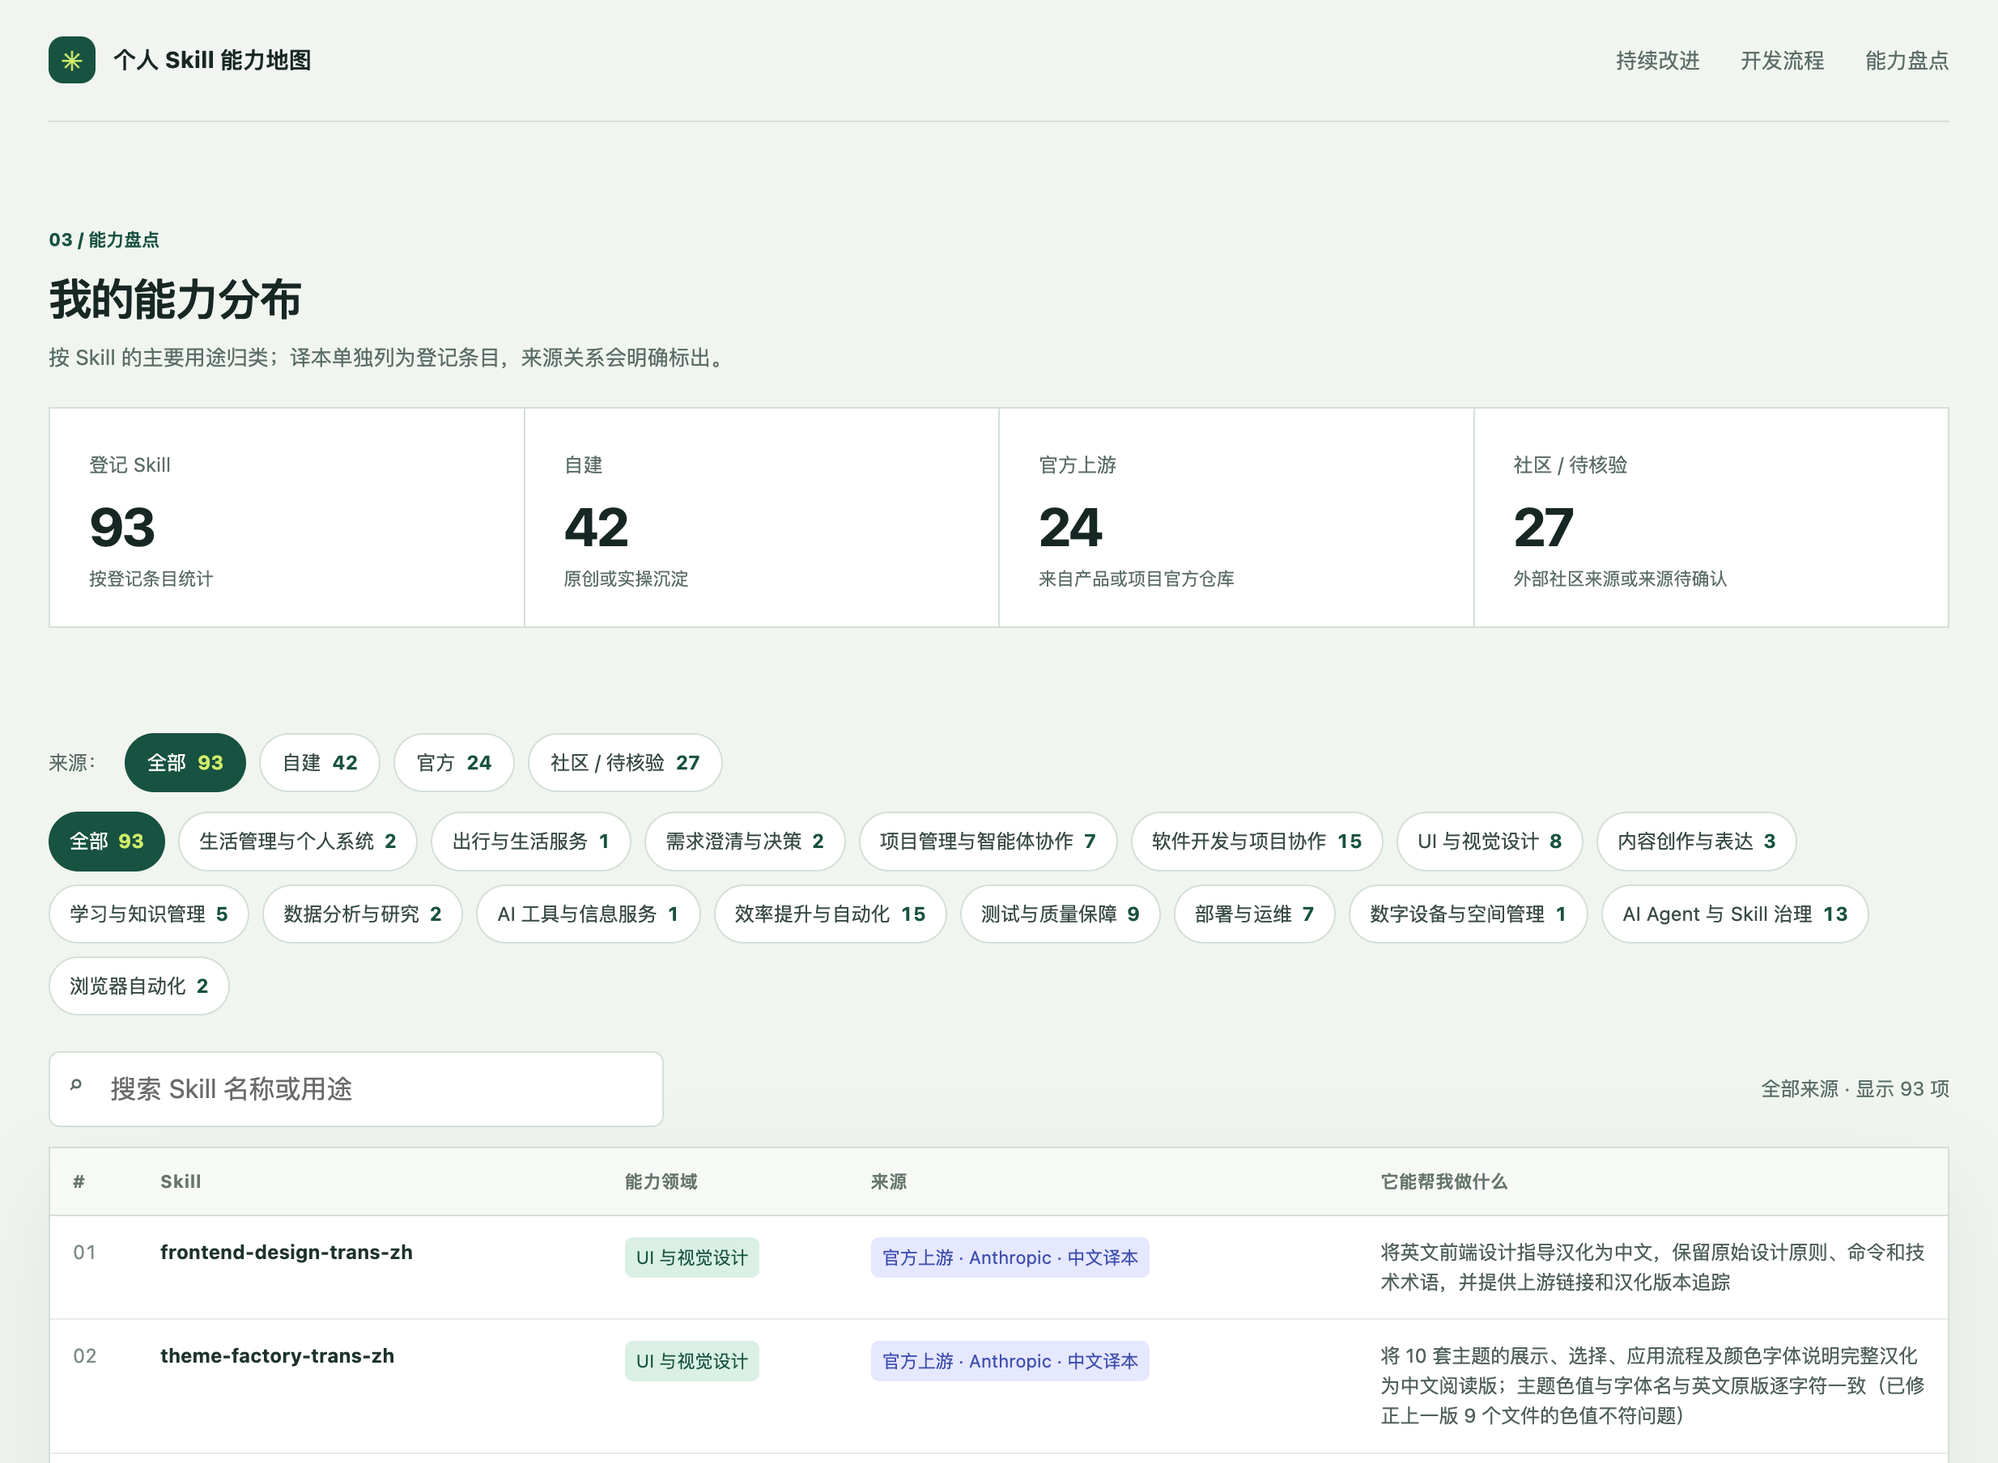
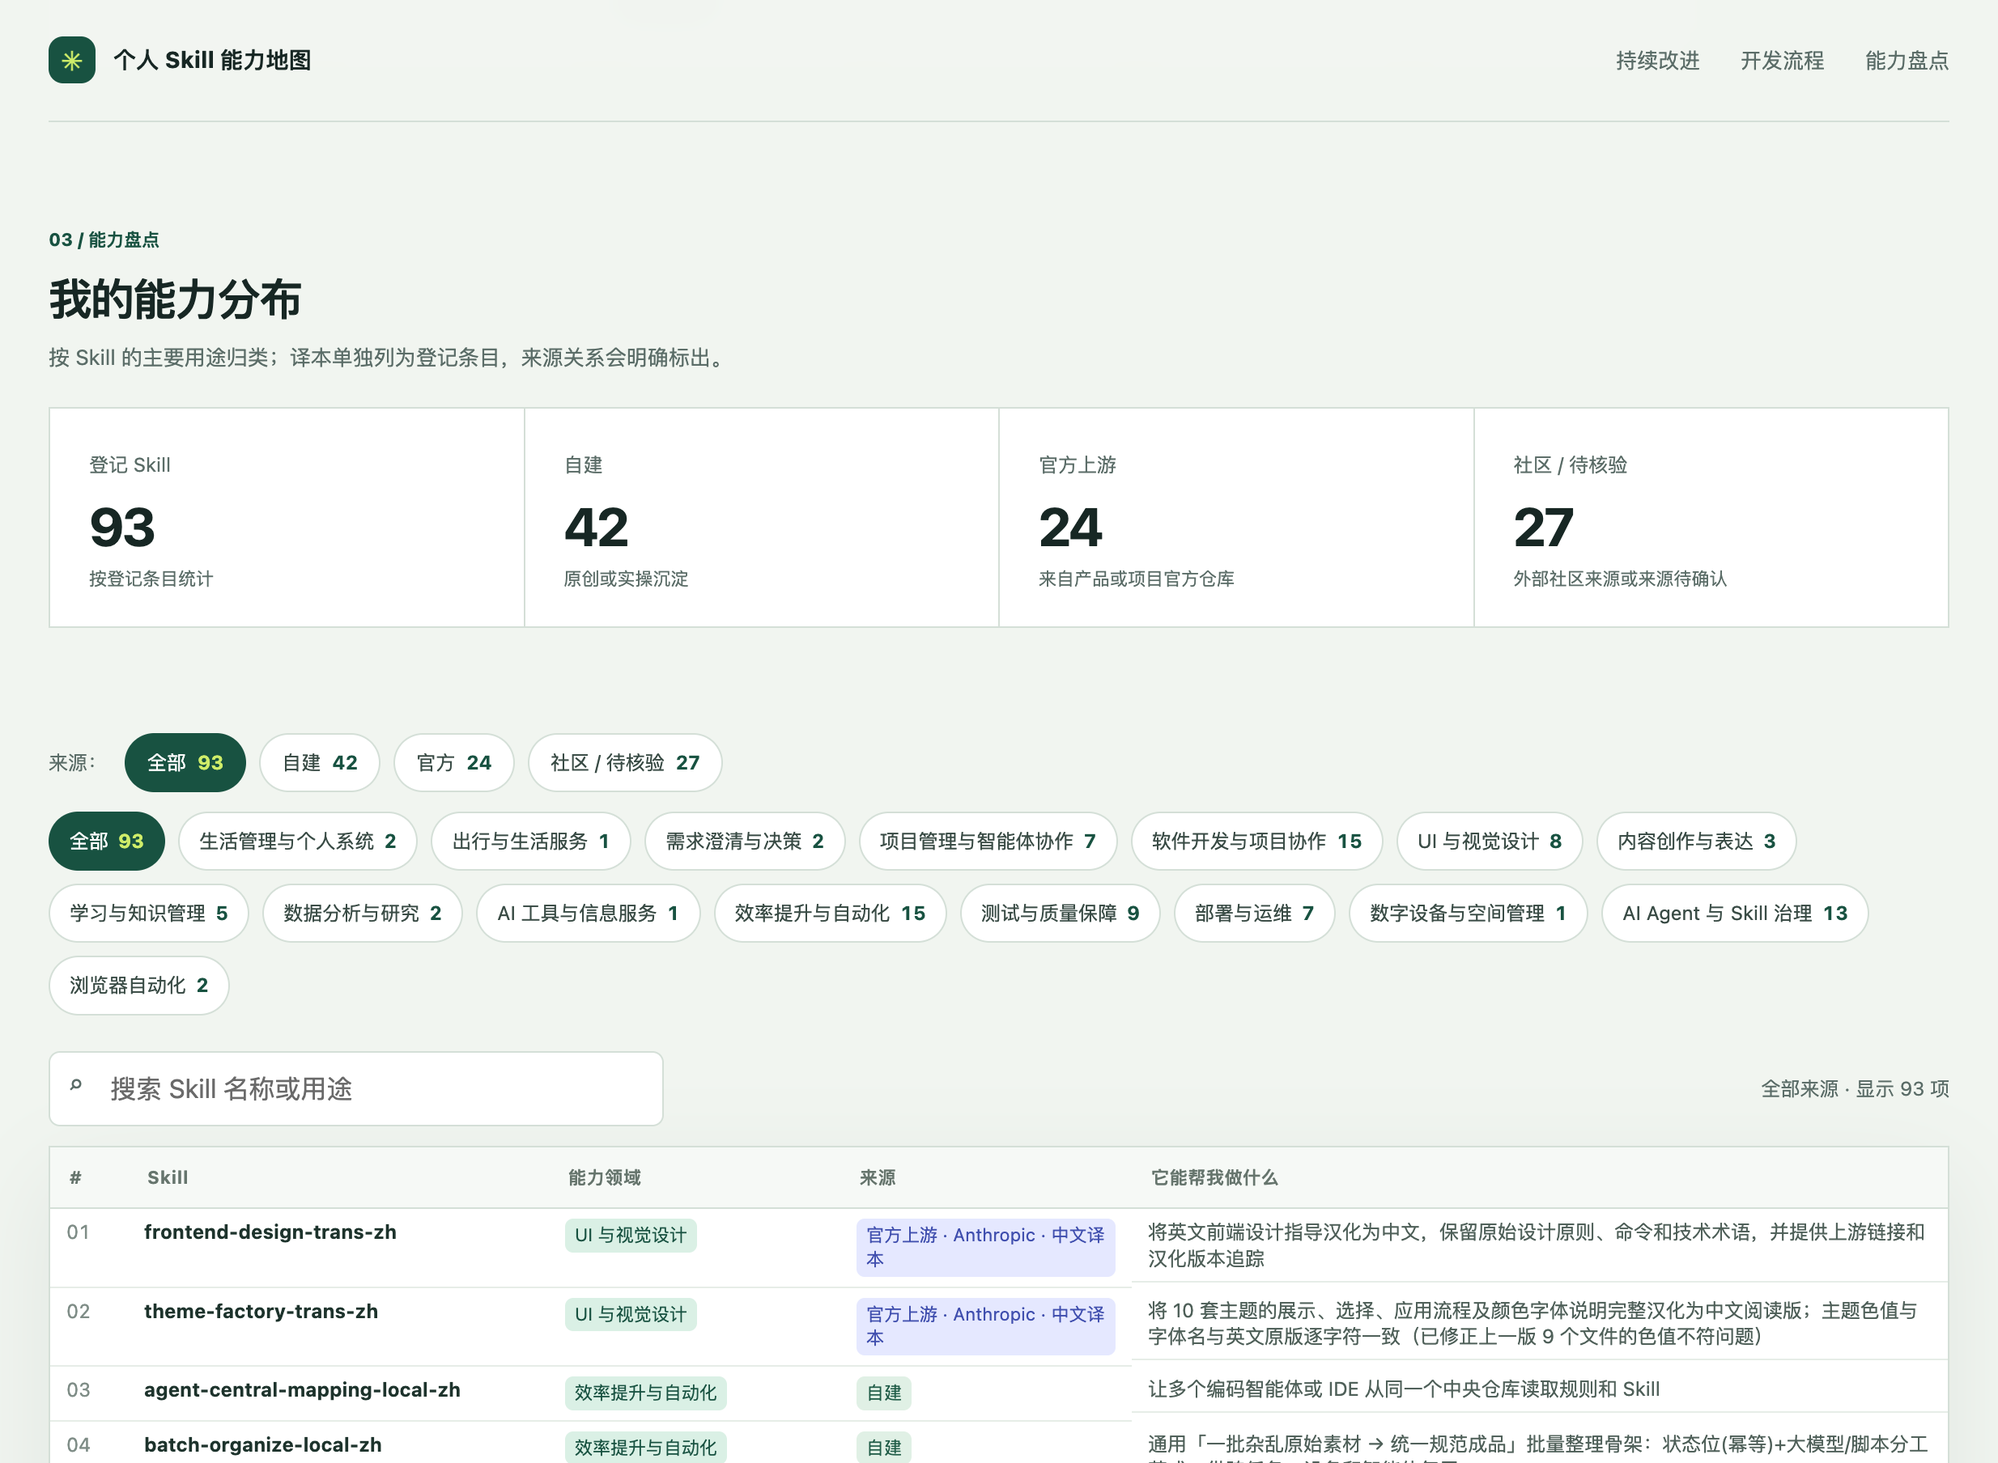
fix: remove internal gap notes and compact skill list

diff --git a/index.html b/index.html
@@ -12,8 +12,8 @@
     .hero{padding:63px 0 36px;display:grid;grid-template-columns:1.2fr .8fr;gap:60px;align-items:end}.kicker{font-size:12px;color:var(--green);font-weight:700;letter-spacing:.09em}.hero h1{font-size:clamp(42px,6vw,76px);line-height:1.03;letter-spacing:-.055em;margin:17px 0 20px;max-width:780px}.hero p{font-size:16px;color:var(--muted);max-width:600px;margin:0}.hero-note{border-left:2px solid var(--lime);padding:4px 0 4px 19px;color:#52645e;font-size:13px;max-width:340px;justify-self:end}.hero-note strong{color:var(--ink);display:block;margin-bottom:5px;font-size:14px}
     .stats{display:grid;grid-template-columns:repeat(4,1fr);gap:1px;border:1px solid var(--line);background:var(--line);margin:15px 0 65px}.stat{background:var(--surface);padding:21px 24px}.stat small{color:var(--muted);font-size:12px}.stat strong{display:block;font-size:33px;letter-spacing:-.04em;line-height:1.2;margin-top:7px}.stat .hint{font-size:11px;color:var(--muted);margin-top:4px}.section{padding:28px 0 66px;scroll-margin-top:20px}.section-head{display:flex;justify-content:space-between;align-items:end;gap:25px;margin-bottom:21px}.section-head h2{font-size:27px;letter-spacing:-.035em;margin:0}.section-head p{color:var(--muted);font-size:13px;margin:5px 0 0}.eyebrow{font-size:11px;color:var(--green);font-weight:750;margin-bottom:7px}.domains{display:flex;gap:8px;flex-wrap:wrap;margin:17px 0 22px}.domain-chip{border:1px solid var(--line);color:#42564f;background:#fff;padding:8px 12px;border-radius:999px;font-size:12px}.domain-chip b{color:var(--green);margin-left:6px}.domain-chip[aria-pressed="true"]{background:var(--green);border-color:var(--green);color:#fff}.domain-chip[aria-pressed="true"] b{color:var(--lime)}
     .source-filters{display:flex;align-items:center;gap:8px;flex-wrap:wrap;margin:18px 0 12px}.filter-label{font-size:12px;color:var(--muted);margin-right:3px}.source-chip{border:1px solid var(--line);color:#42564f;background:#fff;padding:8px 13px;border-radius:999px;font-size:12px}.source-chip b{margin-left:7px;color:var(--green)}.source-chip[aria-pressed="true"]{background:var(--green);border-color:var(--green);color:#fff}.source-chip[aria-pressed="true"] b{color:var(--lime)}.domains{margin:12px 0 22px}.domain-chip b{font-variant-numeric:tabular-nums}
-    .toolbar{display:flex;justify-content:space-between;align-items:center;gap:12px;margin:12px 0}.search{width:min(380px,100%);position:relative}.search input{width:100%;border:1px solid var(--line);border-radius:7px;background:#fff;padding:10px 12px 10px 37px;color:var(--ink);outline:none}.search input:focus{border-color:var(--green);box-shadow:0 0 0 3px rgba(25,92,74,.12)}.search span{position:absolute;left:12px;top:8px;color:var(--muted)}.result-count{font-size:12px;color:var(--muted)}.table-shell{overflow:auto;background:var(--surface);border:1px solid var(--line);box-shadow:var(--shadow)}table{border-collapse:collapse;width:100%;min-width:900px;text-align:left}th{font-size:11px;letter-spacing:.03em;color:#718078;background:#f7faf7;padding:12px 14px;border-bottom:1px solid var(--line);font-weight:700;position:sticky;top:0}td{padding:13px 14px;border-bottom:1px solid #e9efea;vertical-align:top;font-size:12px}tbody tr:hover{background:#f9fcf9}.num{color:#8a9892;font-variant-numeric:tabular-nums;width:54px}.skill-name{font-weight:700;color:#203a32;white-space:nowrap}.domain-tag{display:inline-block;border-radius:5px;padding:4px 7px;background:var(--mint);color:var(--green);font-size:11px;white-space:nowrap}.source-tag{display:inline-block;border-radius:5px;padding:4px 7px;font-size:11px;white-space:nowrap}.source-self{background:#e4f2e8;color:#21664f}.source-official{background:var(--blue-pale);color:#4959b7}.source-other{background:#f0eee9;color:#6c6257}.summary{color:#596b64;max-width:510px}.empty{padding:35px;text-align:center;color:var(--muted)}
-    .flow-title{font-size:14px;margin:23px 0 8px;color:#53675f}.flow-wrap{overflow-x:auto;padding:4px 1px 15px}.flow{display:flex;align-items:stretch;gap:0;min-width:1030px}.life-flow{min-width:760px}.stage{width:168px;min-height:165px;background:#fff;border:1px solid var(--line);padding:15px 14px;position:relative;flex:0 0 auto}.stage:first-child{border-radius:8px 0 0 8px}.stage:last-child{border-radius:0 8px 8px 0}.stage:not(:last-child):after{content:"";position:absolute;z-index:2;right:-13px;top:29px;width:24px;height:1px;background:#8eaa98}.stage:not(:last-child):before{content:"";position:absolute;z-index:3;right:-14px;top:25px;width:8px;height:8px;border-top:1px solid #8eaa98;border-right:1px solid #8eaa98;transform:rotate(45deg)}.stage-n{font-size:10px;color:#87958f;font-variant-numeric:tabular-nums}.stage h3{font-size:14px;margin:10px 0 9px}.stage button{border:0;background:transparent;padding:0;text-align:left;color:var(--green);font-size:11px;line-height:1.5;text-decoration:underline;text-decoration-color:#bbd1c4;text-underline-offset:3px;display:block;margin:5px 0}.stage button:hover{color:var(--blue)}.flow-detail{font-size:10px;color:var(--muted);margin-top:6px}.gap{color:#9a5936;font-size:10px;background:var(--orange-pale);padding:5px 7px;margin-top:8px;border-radius:4px}.flow-note{font-size:12px;color:var(--muted);margin:10px 0 0}.flow-note b{color:var(--orange)}
+    .toolbar{display:flex;justify-content:space-between;align-items:center;gap:12px;margin:12px 0}.search{width:min(380px,100%);position:relative}.search input{width:100%;border:1px solid var(--line);border-radius:7px;background:#fff;padding:10px 12px 10px 37px;color:var(--ink);outline:none}.search input:focus{border-color:var(--green);box-shadow:0 0 0 3px rgba(25,92,74,.12)}.search span{position:absolute;left:12px;top:8px;color:var(--muted)}.result-count{font-size:12px;color:var(--muted)}.table-shell{overflow:auto;background:var(--surface);border:1px solid var(--line);box-shadow:var(--shadow)}table{border-collapse:collapse;width:100%;min-width:900px;table-layout:fixed;text-align:left}th{font-size:11px;letter-spacing:.03em;color:#718078;background:#f7faf7;padding:10px 12px;border-bottom:1px solid var(--line);font-weight:700;position:sticky;top:0}td{padding:6px 10px;border-bottom:1px solid #e9efea;vertical-align:top;font-size:12px;line-height:1.35}tbody tr{height:auto}tbody tr:hover{background:#f9fcf9}th:nth-child(1),td:nth-child(1){width:48px}th:nth-child(2),td:nth-child(2){width:260px}th:nth-child(3),td:nth-child(3){width:180px}th:nth-child(4),td:nth-child(4){width:180px}.num{color:#8a9892;font-variant-numeric:tabular-nums;width:54px}.skill-name{font-weight:700;color:#203a32;white-space:nowrap}.domain-tag{display:inline-block;border-radius:5px;padding:3px 6px;background:var(--mint);color:var(--green);font-size:11px;white-space:normal}.source-tag{display:inline-block;border-radius:5px;padding:3px 6px;font-size:11px;white-space:normal}.source-self{background:#e4f2e8;color:#21664f}.source-official{background:var(--blue-pale);color:#4959b7}.source-other{background:#f0eee9;color:#6c6257}.summary{color:#596b64;max-width:510px;display:-webkit-box;-webkit-box-orient:vertical;-webkit-line-clamp:2;line-clamp:2;overflow:hidden}.empty{padding:35px;text-align:center;color:var(--muted)}
+    .flow-title{font-size:14px;margin:23px 0 8px;color:#53675f}.flow-wrap{overflow-x:auto;padding:4px 1px 15px}.flow{display:flex;align-items:stretch;gap:0;min-width:1030px}.life-flow{min-width:760px}.stage{width:168px;min-height:165px;background:#fff;border:1px solid var(--line);padding:15px 14px;position:relative;flex:0 0 auto}.stage:first-child{border-radius:8px 0 0 8px}.stage:last-child{border-radius:0 8px 8px 0}.stage:not(:last-child):after{content:"";position:absolute;z-index:2;right:-13px;top:29px;width:24px;height:1px;background:#8eaa98}.stage:not(:last-child):before{content:"";position:absolute;z-index:3;right:-14px;top:25px;width:8px;height:8px;border-top:1px solid #8eaa98;border-right:1px solid #8eaa98;transform:rotate(45deg)}.stage-n{font-size:10px;color:#87958f;font-variant-numeric:tabular-nums}.stage h3{font-size:14px;margin:10px 0 9px}.stage button{border:0;background:transparent;padding:0;text-align:left;color:var(--green);font-size:11px;line-height:1.5;text-decoration:underline;text-decoration-color:#bbd1c4;text-underline-offset:3px;display:block;margin:5px 0}.stage button:hover{color:var(--blue)}.flow-detail{font-size:10px;color:var(--muted);margin-top:6px}
     .heat-card{background:#fff;border:1px solid var(--line);padding:23px 24px;box-shadow:var(--shadow)}.heat-top{display:flex;align-items:start;justify-content:space-between;gap:15px}.heat-top strong{font-size:13px}.heat-top small{display:block;color:var(--muted);margin-top:4px;font-size:11px}.heat-total{font-size:23px;font-weight:750;color:var(--green)}.heat-scroll{overflow:auto;margin-top:17px;padding-bottom:5px}.heat-grid{display:grid;grid-auto-flow:column;grid-template-rows:repeat(7,12px);grid-auto-columns:12px;gap:4px;width:max-content}.heat-cell{height:12px;width:12px;border-radius:2px;background:#edf1ec;position:relative;border:0;padding:0}.heat-cell[data-level="1"]{background:#cce3d4}.heat-cell[data-level="2"]{background:#91c6a6}.heat-cell[data-level="3"]{background:#529a71}.heat-cell[data-level="4"]{background:#1c654b}.heat-cell:hover,.heat-cell:focus-visible{outline:2px solid var(--ink);outline-offset:1px}.heat-months{display:flex;justify-content:space-between;color:#829088;font-size:10px;margin:0 1px 7px;max-width:100%}.heat-legend{display:flex;justify-content:flex-end;align-items:center;gap:5px;color:var(--muted);font-size:10px;margin-top:12px}.heat-legend i{width:11px;height:11px;border-radius:2px;background:#edf1ec}.heat-legend i:nth-of-type(2){background:#cce3d4}.heat-legend i:nth-of-type(3){background:#91c6a6}.heat-legend i:nth-of-type(4){background:#529a71}.heat-legend i:nth-of-type(5){background:#1c654b}.heat-caption{font-size:11px;color:var(--muted);border-top:1px solid var(--line);padding-top:12px;margin-top:16px}.recent{display:grid;grid-template-columns:repeat(4,1fr);gap:1px;background:var(--line);border:1px solid var(--line);margin-top:22px}.recent article{background:#fff;padding:15px}.recent time{font-size:11px;color:var(--green);font-weight:700}.recent p{font-size:12px;color:#53635d;margin:6px 0 0}
     .foot{border-top:1px solid var(--line);padding:22px 0 42px;display:flex;justify-content:space-between;gap:20px;color:var(--muted);font-size:11px}.foot a{color:var(--green)}.loading{padding:30px;color:var(--muted)}
     @media(max-width:760px){.wrap{padding:0 18px}.top{height:64px}.top nav{gap:12px;font-size:11px}.top nav a{white-space:nowrap}.hero{padding:45px 0 24px;grid-template-columns:1fr;gap:22px}.hero-note{justify-self:start}.hero h1{font-size:47px}.stats{grid-template-columns:repeat(2,1fr);margin-bottom:44px}.stat{padding:16px}.stat strong{font-size:28px}.section{padding:22px 0 45px}.section-head{display:block}.section-head h2{font-size:23px}.toolbar{align-items:start;flex-direction:column}.search{width:100%}.recent{grid-template-columns:repeat(2,1fr)}.foot{display:block}.foot span{display:block;margin:5px 0}}
@@ -28,7 +28,7 @@
     </header>
     <main id="top">
       <section class="hero">
-        <div><div class="kicker">工作方法持续生长</div><h1>把经验，变成<br>可复用的能力。</h1><p>一张关于个人 Skill 资产的地图。看清我会什么、从哪里来，也看见工作流程中还可以补上的位置。</p></div>
+        <div><div class="kicker">工作方法持续生长</div><h1>把经验，变成<br>可复用的能力。</h1><p>展示个人沉淀的 Skill 能力、来源，以及它们在工作、学习与生活中的应用。</p></div>
         <aside class="hero-note"><strong>数据说明</strong><span>清单覆盖中央仓库登记项和个人技能库中已安装的 Skill，兼顾工作、学习与生活系统；来源分开展示。迭代热力图统计登记记录。</span></aside>
       </section>
       <section class="section" id="iteration">
@@ -51,11 +51,10 @@
           <article class="stage"><span class="stage-n">01</span><h3>接手项目</h3><button data-skill="project-steward-local-zh">项目管家</button><button data-skill="agent-central-mapping-local-zh">规则接入</button></article>
           <article class="stage"><span class="stage-n">02</span><h3>梳理需求</h3><button data-skill="grill-me-trans-zh">方案追问</button><button data-skill="github-readme-maintainer-local-zh">项目说明</button><button data-skill="requirements-traceability">需求追踪</button><button data-skill="orca-design-pipeline">ORCA 设计流程入口</button><div class="flow-detail">正式产品：需求 → 设计契约 → 实现与验收</div></article>
           <article class="stage"><span class="stage-n">03</span><h3>设计与实现</h3><button data-skill="design-reference-research">设计参考研究</button><button data-skill="visual-direction-exploration">视觉方向探索</button><button data-skill="ux-interaction-contract">UX 交互契约</button><button data-skill="interactive-product-prototype">交互式原型</button><button data-skill="design-freeze">设计冻结</button><button data-skill="frontend-design-trans-zh">UI 设计参考</button><button data-skill="nextjs-github-pages-deploy-local-zh">网站开发</button><button data-skill="github">GitHub 协作</button></article>
-          <article class="stage"><span class="stage-n">04</span><h3>检查质量</h3><button data-skill="webapp-testing">Web 测试</button><button data-skill="local-service-change-acceptance-local-zh">服务验收</button><button data-skill="orca-emulator-android">设备测试</button><div class="gap">可补：通用代码审查</div></article>
+          <article class="stage"><span class="stage-n">04</span><h3>检查质量</h3><button data-skill="webapp-testing">Web 测试</button><button data-skill="local-service-change-acceptance-local-zh">服务验收</button><button data-skill="orca-emulator-android">设备测试</button></article>
           <article class="stage"><span class="stage-n">05</span><h3>发布上线</h3><button data-skill="deploy-to-vercel-trans-zh">Vercel</button><button data-skill="netlify-deploy-trans-zh">Netlify</button><button data-skill="vercel-blocked-deploy-triage-local-zh">部署排障</button></article>
           <article class="stage"><span class="stage-n">06</span><h3>复盘沉淀</h3><button data-skill="skill-manager-governance-local-zh">Skill 治理</button><button data-skill="skill-creator-trans-zh">Skill 创建</button><button data-skill="batch-skill-localizer-local-zh">汉化核验</button></article>
         </div></div>
-        <p class="flow-note"><b>空缺提示：</b>这是按当前登记目录做的初版地图。“可补”表示清单中没有通用专用 Skill，后续可以通过筛选和复盘验证实际缺口。</p>
       </section>
 
       <section class="section" id="skills">
@@ -108,7 +107,7 @@
     const list=allSkills.filter(s=>(activeDomain==='全部'||s.domain===activeDomain)&&(activeKind==='全部'||s.kind===activeKind)&&(!q||`${s.name} ${s.summary} ${s.source}`.toLowerCase().includes(q)));
     const kindLabel=activeKind==='全部'?'全部来源':kindName[activeKind];
     document.getElementById('resultCount').textContent=`${kindLabel} · 显示 ${list.length} 项`;
-    document.getElementById('skillRows').innerHTML=list.length?list.map(s=>`<tr><td class="num">${String(s.id).padStart(2,'0')}</td><td class="skill-name">${escapeHtml(s.name)}</td><td><span class="domain-tag">${escapeHtml(s.domain)}</span></td><td><span class="source-tag ${kindClass[s.kind]}">${escapeHtml(s.source)}</span></td><td class="summary">${escapeHtml(s.summary)}</td></tr>`).join(''):`<tr><td colspan="5" class="empty">没有找到匹配的 Skill</td></tr>`;
+    document.getElementById('skillRows').innerHTML=list.length?list.map(s=>`<tr><td class="num">${String(s.id).padStart(2,'0')}</td><td class="skill-name">${escapeHtml(s.name)}</td><td><span class="domain-tag">${escapeHtml(s.domain)}</span></td><td><span class="source-tag ${kindClass[s.kind]}">${escapeHtml(s.source)}</span></td><td class="summary" title="${escapeHtml(s.summary)}">${escapeHtml(s.summary)}</td></tr>`).join(''):`<tr><td colspan="5" class="empty">没有找到匹配的 Skill</td></tr>`;
   }
   function renderHeat(data){
     const counts=Object.fromEntries(data.events.map(e=>[e.date,e.count]));const total=data.events.reduce((n,e)=>n+e.count,0);document.getElementById('eventTotal').textContent=total;document.getElementById('heatSub').textContent=`覆盖 ${data.events.length} 个有记录的日期`;
